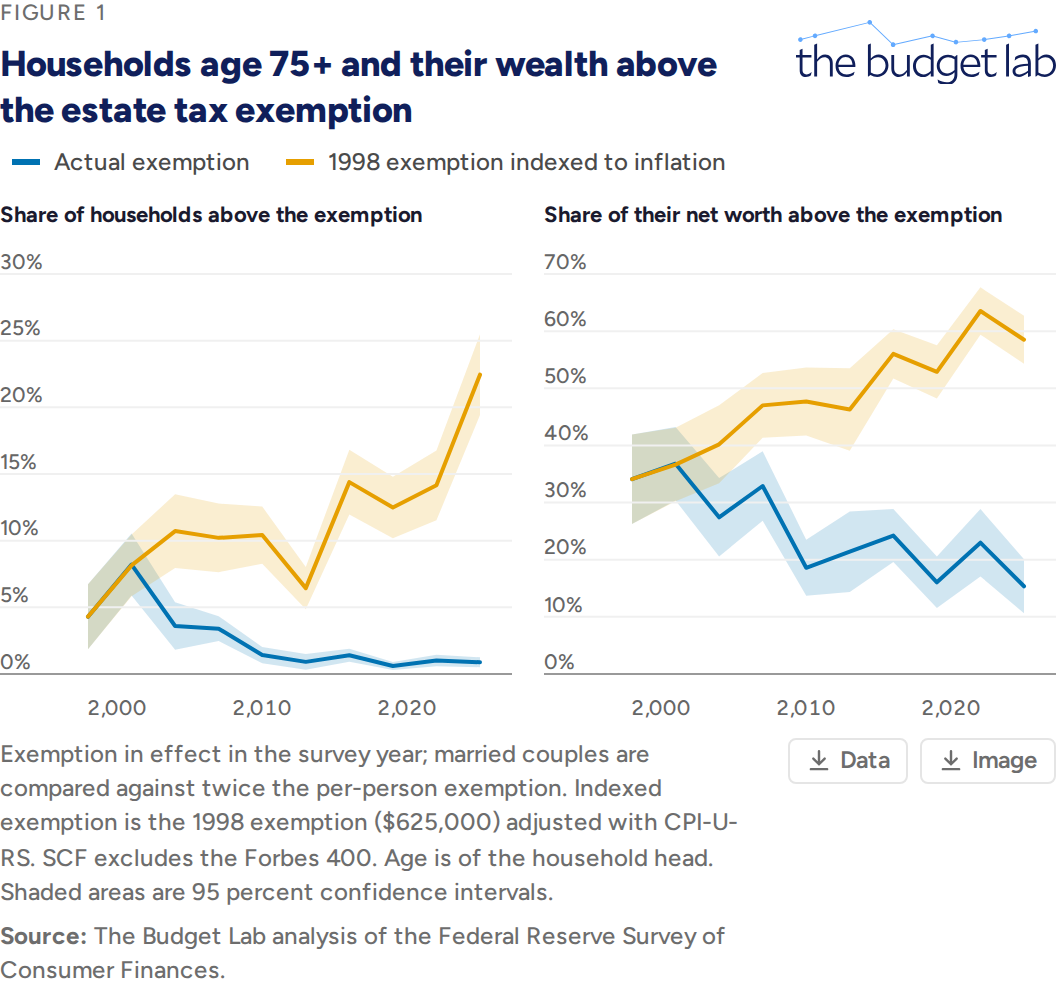
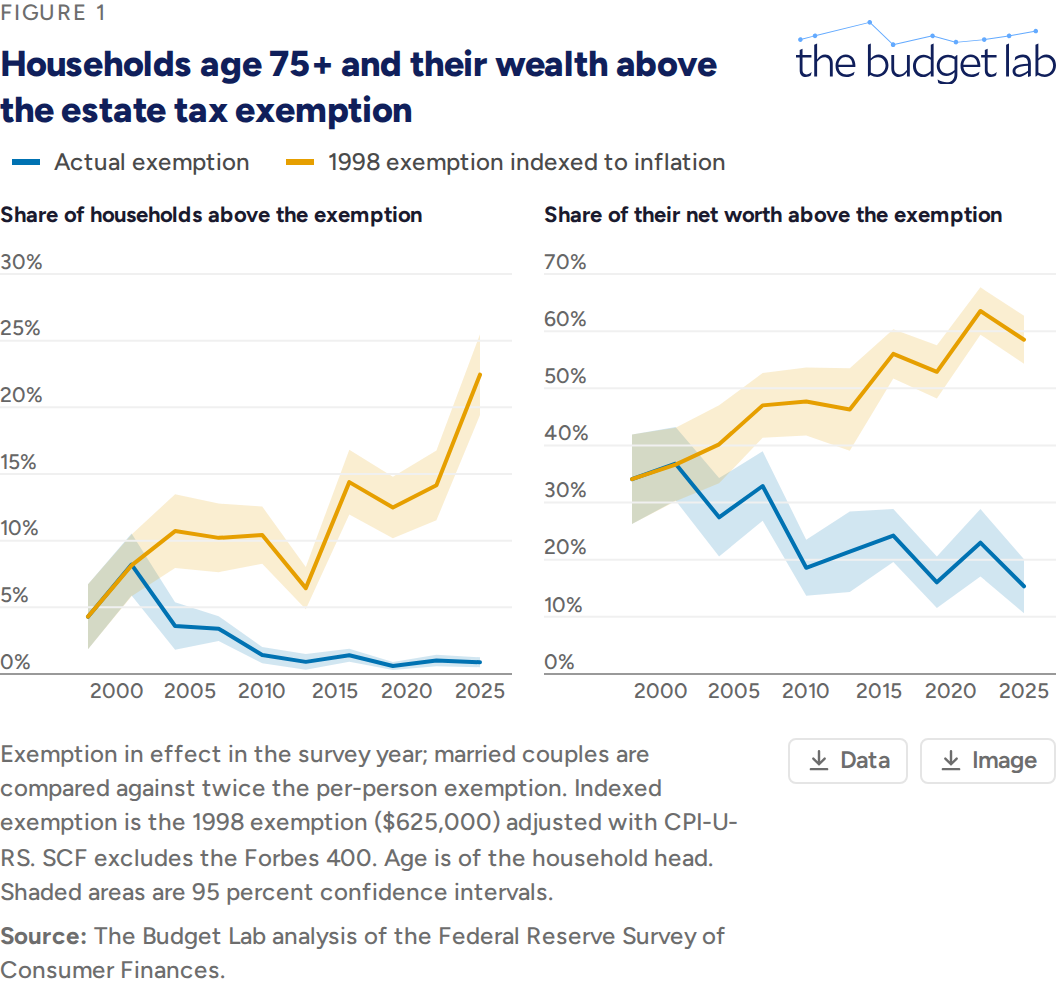
Deploy preview for PR 77 🛫

diff --git a/pr-preview/pr-77/scf-2025-tax-takeaways/home-sale-exclusion/index.html b/pr-preview/pr-77/scf-2025-tax-takeaways/home-sale-exclusion/index.html
@@ -16,7 +16,7 @@ if (typeof BudgetLabChart === "undefined") {
   renderUnavailable(el, "Home gains above the capital gains exclusion", "Figure 2");
 } else {
 BudgetLabChart.mountChart(el, {
-  spec: {"chartType":"line","title":"Home gains above the capital gains exclusion","source":"The Budget Lab analysis of the Federal Reserve Survey of Consumer Finances.","note":"Gain is current value of the primary residence less purchase price and improvements. Married couples are compared against $500,000. Total home gains exclude owners with losses. Indexed exclusion adjusted with CPI-U-RS. Shaded areas are 95 percent confidence intervals.","xAxisType":"numeric","columns":{"x":"year","value":"value","series":"series","facet":"panel"},"small_multiples":{"columns":2,"mode":"per-pane","pane_order":["Share of homeowners with gains above the exclusion","Share of home gains above the exclusion"]},"series_order":["Actual exclusion ($250,000 / $500,000)","Exclusion indexed to inflation since 1998"],"confidence_bands":[{"series":"Actual exclusion ($250,000 / $500,000)","lower":"lower","upper":"upper"},{"series":"Exclusion indexed to inflation since 1998","lower":"lower","upper":"upper"}],"value_suffix":"%","yAxisPolicy":{"min":0},"tooltip_decimals":1,"data":"data.csv"},
+  spec: {"chartType":"line","title":"Home gains above the capital gains exclusion","source":"The Budget Lab analysis of the Federal Reserve Survey of Consumer Finances.","note":"Gain is current value of the primary residence less purchase price and improvements. Married couples are compared against $500,000. Total home gains exclude owners with losses. Indexed exclusion adjusted with CPI-U-RS. Shaded areas are 95 percent confidence intervals.","xAxisType":"temporal","columns":{"x":"year","value":"value","series":"series","facet":"panel"},"small_multiples":{"columns":2,"mode":"per-pane","pane_order":["Share of homeowners with gains above the exclusion","Share of home gains above the exclusion"]},"series_order":["Actual exclusion ($250,000 / $500,000)","Exclusion indexed to inflation since 1998"],"confidence_bands":[{"series":"Actual exclusion ($250,000 / $500,000)","lower":"lower","upper":"upper"},{"series":"Exclusion indexed to inflation since 1998","lower":"lower","upper":"upper"}],"value_suffix":"%","yAxisPolicy":{"min":0},"tooltip_decimals":1,"data":"data.csv"},
   rows: [{"year":"1998","panel":"Share of homeowners with gains above the exclusion","series":"Actual exclusion ($250,000 / $500,000)","value":"0.61","lower":"0.37","upper":"0.85"},{"year":"2001","panel":"Share of homeowners with gains above the exclusion","series":"Actual exclusion ($250,000 / $500,000)","value":"1.56","lower":"1.28","upper":"1.85"},{"year":"2004","panel":"Share of homeowners with gains above the exclusion","series":"Actual exclusion ($250,000 / $500,000)","value":"4.52","lower":"3.88","upper":"5.16"},{"year":"2007","panel":"Share of homeowners with gains above the exclusion","series":"Actual exclusion ($250,000 / $500,000)","value":"6.67","lower":"5.96","upper":"7.39"},{"year":"2010","panel":"Share of homeowners with gains above the exclusion","series":"Actual exclusion ($250,000 / $500,000)","value":"3.7","lower":"3.18","upper":"4.22"},{"year":"2013","panel":"Share of homeowners with gains above the exclusion","series":"Actual exclusion ($250,000 / $500,000)","value":"3.06","lower":"2.56","upper":"3.56"},{"year":"2016","panel":"Share of homeowners with gains above the exclusion","series":"Actual exclusion ($250,000 / $500,000)","value":"4.37","lower":"3.84","upper":"4.89"},{"year":"2019","panel":"Share of homeowners with gains above the exclusion","series":"Actual exclusion ($250,000 / $500,000)","value":"4.54","lower":"4","upper":"5.08"},{"year":"2022","panel":"Share of homeowners with gains above the exclusion","series":"Actual exclusion ($250,000 / $500,000)","value":"10.45","lower":"9.01","upper":"11.88"},{"year":"2025","panel":"Share of homeowners with gains above the exclusion","series":"Actual exclusion ($250,000 / $500,000)","value":"11.68","lower":"10.56","upper":"12.8"},{"year":"1998","panel":"Share of homeowners with gains above the exclusion","series":"Exclusion indexed to inflation since 1998","value":"0.61","lower":"0.37","upper":"0.85"},{"year":"2001","panel":"Share of homeowners with gains above the exclusion","series":"Exclusion indexed to inflation since 1998","value":"1.34","lower":"1.08","upper":"1.6"},{"year":"2004","panel":"Share of homeowners with gains above the exclusion","series":"Exclusion indexed to inflation since 1998","value":"3.57","lower":"3.06","upper":"4.08"},{"year":"2007","panel":"Share of homeowners with gains above the exclusion","series":"Exclusion indexed to inflation since 1998","value":"4.52","lower":"3.98","upper":"5.06"},{"year":"2010","panel":"Share of homeowners with gains above the exclusion","series":"Exclusion indexed to inflation since 1998","value":"2.08","lower":"1.62","upper":"2.55"},{"year":"2013","panel":"Share of homeowners with gains above the exclusion","series":"Exclusion indexed to inflation since 1998","value":"1.71","lower":"1.38","upper":"2.05"},{"year":"2016","panel":"Share of homeowners with gains above the exclusion","series":"Exclusion indexed to inflation since 1998","value":"2.35","lower":"1.99","upper":"2.72"},{"year":"2019","panel":"Share of homeowners with gains above the exclusion","series":"Exclusion indexed to inflation since 1998","value":"2.42","lower":"1.92","upper":"2.91"},{"year":"2022","panel":"Share of homeowners with gains above the exclusion","series":"Exclusion indexed to inflation since 1998","value":"3.81","lower":"3.04","upper":"4.58"},{"year":"2025","panel":"Share of homeowners with gains above the exclusion","series":"Exclusion indexed to inflation since 1998","value":"3.91","lower":"3.28","upper":"4.53"},{"year":"1998","panel":"Share of home gains above the exclusion","series":"Actual exclusion ($250,000 / $500,000)","value":"5.78","lower":"3.52","upper":"8.04"},{"year":"2001","panel":"Share of home gains above the exclusion","series":"Actual exclusion ($250,000 / $500,000)","value":"8.92","lower":"6.68","upper":"11.16"},{"year":"2004","panel":"Share of home gains above the exclusion","series":"Actual exclusion ($250,000 / $500,000)","value":"16.2","lower":"13.11","upper":"19.29"},{"year":"2007","panel":"Share of home gains above the exclusion","series":"Actual exclusion ($250,000 / $500,000)","value":"18.84","lower":"16.72","upper":"20.95"},{"year":"2010","panel":"Share of home gains above the exclusion","series":"Actual exclusion ($250,000 / $500,000)","value":"14.55","lower":"12.11","upper":"16.98"},{"year":"2013","panel":"Share of home gains above the exclusion","series":"Actual exclusion ($250,000 / $500,000)","value":"15.67","lower":"12.8","upper":"18.54"},{"year":"2016","panel":"Share of home gains above the exclusion","series":"Actual exclusion ($250,000 / $500,000)","value":"21.39","lower":"16.1","upper":"26.69"},{"year":"2019","panel":"Share of home gains above the exclusion","series":"Actual exclusion ($250,000 / $500,000)","value":"21.98","lower":"18.19","upper":"25.77"},{"year":"2022","panel":"Share of home gains above the exclusion","series":"Actual exclusion ($250,000 / $500,000)","value":"24.11","lower":"21.32","upper":"26.91"},{"year":"2025","panel":"Share of home gains above the exclusion","series":"Actual exclusion ($250,000 / $500,000)","value":"25.65","lower":"23.05","upper":"28.25"},{"year":"1998","panel":"Share of home gains above the exclusion","series":"Exclusion indexed to inflation since 1998","value":"5.78","lower":"3.52","upper":"8.04"},{"year":"2001","panel":"Share of home gains above the exclusion","series":"Exclusion indexed to inflation since 1998","value":"8.2","lower":"6.03","upper":"10.37"},{"year":"2004","panel":"Share of home gains above the exclusion","series":"Exclusion indexed to inflation since 1998","value":"13.91","lower":"10.85","upper":"16.98"},{"year":"2007","panel":"Share of home gains above the exclusion","series":"Exclusion indexed to inflation since 1998","value":"14.71","lower":"12.69","upper":"16.73"},{"year":"2010","panel":"Share of home gains above the exclusion","series":"Exclusion indexed to inflation since 1998","value":"10.4","lower":"8.18","upper":"12.62"},{"year":"2013","panel":"Share of home gains above the exclusion","series":"Exclusion indexed to inflation since 1998","value":"10.91","lower":"8.37","upper":"13.46"},{"year":"2016","panel":"Share of home gains above the exclusion","series":"Exclusion indexed to inflation since 1998","value":"15.54","lower":"10.07","upper":"21.02"},{"year":"2019","panel":"Share of home gains above the exclusion","series":"Exclusion indexed to inflation since 1998","value":"15.45","lower":"11.83","upper":"19.07"},{"year":"2022","panel":"Share of home gains above the exclusion","series":"Exclusion indexed to inflation since 1998","value":"12.97","lower":"10.65","upper":"15.29"},{"year":"2025","panel":"Share of home gains above the exclusion","series":"Exclusion indexed to inflation since 1998","value":"12.49","lower":"10.12","upper":"14.86"}],
   eyebrow: /[?&]eyebrow=(off|0|false|none|hide)\b/i.test(location.search) ? undefined : "Figure 2",
 });

diff --git a/pr-preview/pr-77/scf-2025-tax-takeaways/estate-tax-exemption/index.html b/pr-preview/pr-77/scf-2025-tax-takeaways/estate-tax-exemption/index.html
@@ -16,7 +16,7 @@ if (typeof BudgetLabChart === "undefined") {
   renderUnavailable(el, "Households age 75+ and their wealth above the estate tax exemption", "Figure 1");
 } else {
 BudgetLabChart.mountChart(el, {
-  spec: {"chartType":"line","title":"Households age 75+ and their wealth above the estate tax exemption","source":"The Budget Lab analysis of the Federal Reserve Survey of Consumer Finances.","note":"Exemption in effect in the survey year; married couples are compared against twice the per-person exemption. Indexed exemption is the 1998 exemption ($625,000) adjusted with CPI-U-RS. SCF excludes the Forbes 400. Age is of the household head. Shaded areas are 95 percent confidence intervals.","xAxisType":"numeric","columns":{"x":"year","value":"value","series":"series","facet":"panel"},"small_multiples":{"columns":2,"mode":"per-pane","pane_order":["Share of households above the exemption","Share of their net worth above the exemption"]},"series_order":["Actual exemption","1998 exemption indexed to inflation"],"confidence_bands":[{"series":"Actual exemption","lower":"lower","upper":"upper"},{"series":"1998 exemption indexed to inflation","lower":"lower","upper":"upper"}],"value_suffix":"%","yAxisPolicy":{"min":0},"tooltip_decimals":1,"data":"data.csv"},
+  spec: {"chartType":"line","title":"Households age 75+ and their wealth above the estate tax exemption","source":"The Budget Lab analysis of the Federal Reserve Survey of Consumer Finances.","note":"Exemption in effect in the survey year; married couples are compared against twice the per-person exemption. Indexed exemption is the 1998 exemption ($625,000) adjusted with CPI-U-RS. SCF excludes the Forbes 400. Age is of the household head. Shaded areas are 95 percent confidence intervals.","xAxisType":"temporal","columns":{"x":"year","value":"value","series":"series","facet":"panel"},"small_multiples":{"columns":2,"mode":"per-pane","pane_order":["Share of households above the exemption","Share of their net worth above the exemption"]},"series_order":["Actual exemption","1998 exemption indexed to inflation"],"confidence_bands":[{"series":"Actual exemption","lower":"lower","upper":"upper"},{"series":"1998 exemption indexed to inflation","lower":"lower","upper":"upper"}],"value_suffix":"%","yAxisPolicy":{"min":0},"tooltip_decimals":1,"data":"data.csv"},
   rows: [{"year":"1998","panel":"Share of households above the exemption","series":"Actual exemption","value":"4.3","lower":"1.86","upper":"6.73"},{"year":"2001","panel":"Share of households above the exemption","series":"Actual exemption","value":"8.21","lower":"5.89","upper":"10.53"},{"year":"2004","panel":"Share of households above the exemption","series":"Actual exemption","value":"3.6","lower":"1.81","upper":"5.39"},{"year":"2007","panel":"Share of households above the exemption","series":"Actual exemption","value":"3.4","lower":"2.47","upper":"4.34"},{"year":"2010","panel":"Share of households above the exemption","series":"Actual exemption","value":"1.42","lower":"0.81","upper":"2.02"},{"year":"2013","panel":"Share of households above the exemption","series":"Actual exemption","value":"0.91","lower":"0.32","upper":"1.5"},{"year":"2016","panel":"Share of households above the exemption","series":"Actual exemption","value":"1.41","lower":"0.92","upper":"1.9"},{"year":"2019","panel":"Share of households above the exemption","series":"Actual exemption","value":"0.6","lower":"0.3","upper":"0.9"},{"year":"2022","panel":"Share of households above the exemption","series":"Actual exemption","value":"1.01","lower":"0.58","upper":"1.45"},{"year":"2025","panel":"Share of households above the exemption","series":"Actual exemption","value":"0.88","lower":"0.51","upper":"1.25"},{"year":"1998","panel":"Share of households above the exemption","series":"1998 exemption indexed to inflation","value":"4.3","lower":"1.86","upper":"6.73"},{"year":"2001","panel":"Share of households above the exemption","series":"1998 exemption indexed to inflation","value":"8.15","lower":"5.83","upper":"10.46"},{"year":"2004","panel":"Share of households above the exemption","series":"1998 exemption indexed to inflation","value":"10.72","lower":"7.95","upper":"13.48"},{"year":"2007","panel":"Share of households above the exemption","series":"1998 exemption indexed to inflation","value":"10.21","lower":"7.64","upper":"12.78"},{"year":"2010","panel":"Share of households above the exemption","series":"1998 exemption indexed to inflation","value":"10.42","lower":"8.26","upper":"12.57"},{"year":"2013","panel":"Share of households above the exemption","series":"1998 exemption indexed to inflation","value":"6.44","lower":"4.85","upper":"8.02"},{"year":"2016","panel":"Share of households above the exemption","series":"1998 exemption indexed to inflation","value":"14.39","lower":"11.96","upper":"16.82"},{"year":"2019","panel":"Share of households above the exemption","series":"1998 exemption indexed to inflation","value":"12.49","lower":"10.18","upper":"14.79"},{"year":"2022","panel":"Share of households above the exemption","series":"1998 exemption indexed to inflation","value":"14.16","lower":"11.54","upper":"16.77"},{"year":"2025","panel":"Share of households above the exemption","series":"1998 exemption indexed to inflation","value":"22.45","lower":"19.42","upper":"25.48"},{"year":"1998","panel":"Share of their net worth above the exemption","series":"Actual exemption","value":"34.09","lower":"26.27","upper":"41.9"},{"year":"2001","panel":"Share of their net worth above the exemption","series":"Actual exemption","value":"36.81","lower":"30.38","upper":"43.24"},{"year":"2004","panel":"Share of their net worth above the exemption","series":"Actual exemption","value":"27.42","lower":"20.56","upper":"34.28"},{"year":"2007","panel":"Share of their net worth above the exemption","series":"Actual exemption","value":"32.9","lower":"26.81","upper":"38.98"},{"year":"2010","panel":"Share of their net worth above the exemption","series":"Actual exemption","value":"18.59","lower":"13.7","upper":"23.49"},{"year":"2013","panel":"Share of their net worth above the exemption","series":"Actual exemption","value":"21.41","lower":"14.36","upper":"28.45"},{"year":"2016","panel":"Share of their net worth above the exemption","series":"Actual exemption","value":"24.23","lower":"19.59","upper":"28.86"},{"year":"2019","panel":"Share of their net worth above the exemption","series":"Actual exemption","value":"16.04","lower":"11.53","upper":"20.56"},{"year":"2022","panel":"Share of their net worth above the exemption","series":"Actual exemption","value":"22.98","lower":"17.08","upper":"28.87"},{"year":"2025","panel":"Share of their net worth above the exemption","series":"Actual exemption","value":"15.35","lower":"10.62","upper":"20.07"},{"year":"1998","panel":"Share of their net worth above the exemption","series":"1998 exemption indexed to inflation","value":"34.09","lower":"26.27","upper":"41.9"},{"year":"2001","panel":"Share of their net worth above the exemption","series":"1998 exemption indexed to inflation","value":"36.65","lower":"30.21","upper":"43.08"},{"year":"2004","panel":"Share of their net worth above the exemption","series":"1998 exemption indexed to inflation","value":"40.19","lower":"33.36","upper":"47.02"},{"year":"2007","panel":"Share of their net worth above the exemption","series":"1998 exemption indexed to inflation","value":"47.01","lower":"41.35","upper":"52.67"},{"year":"2010","panel":"Share of their net worth above the exemption","series":"1998 exemption indexed to inflation","value":"47.68","lower":"41.72","upper":"53.63"},{"year":"2013","panel":"Share of their net worth above the exemption","series":"1998 exemption indexed to inflation","value":"46.28","lower":"39.08","upper":"53.49"},{"year":"2016","panel":"Share of their net worth above the exemption","series":"1998 exemption indexed to inflation","value":"56.02","lower":"51.71","upper":"60.34"},{"year":"2019","panel":"Share of their net worth above the exemption","series":"1998 exemption indexed to inflation","value":"52.88","lower":"48.22","upper":"57.55"},{"year":"2022","panel":"Share of their net worth above the exemption","series":"1998 exemption indexed to inflation","value":"63.52","lower":"59.39","upper":"67.66"},{"year":"2025","panel":"Share of their net worth above the exemption","series":"1998 exemption indexed to inflation","value":"58.5","lower":"54.3","upper":"62.69"}],
   eyebrow: /[?&]eyebrow=(off|0|false|none|hide)\b/i.test(location.search) ? undefined : "Figure 1",
 });

diff --git a/pr-preview/pr-77/scf-2025-tax-takeaways/roth-ira/index.html b/pr-preview/pr-77/scf-2025-tax-takeaways/roth-ira/index.html
@@ -16,7 +16,7 @@ if (typeof BudgetLabChart === "undefined") {
   renderUnavailable(el, "Roth IRA holders and balances", "Figure 3");
 } else {
 BudgetLabChart.mountChart(el, {
-  spec: {"chartType":"line","title":"Roth IRA holders and balances","source":"The Budget Lab analysis of the Federal Reserve Survey of Consumer Finances.","note":"IRAs include Keogh plans. Retirement accounts are IRAs, Keoghs, and employer defined contribution plans such as 401(k)s; defined benefit pensions are excluded. Roth 401(k)s cannot be identified and are counted as non-Roth. Balances by IRA type are not available before 2004. Shaded areas are 95 percent confidence intervals.","xAxisType":"numeric","columns":{"x":"year","value":"value","series":"series","facet":"panel"},"small_multiples":{"columns":2,"mode":"per-pane","pane_order":["Share of account holders with a Roth IRA","Share of balances held in Roth IRAs"]},"series_order":["IRAs","All retirement accounts"],"confidence_bands":[{"series":"IRAs","lower":"lower","upper":"upper"},{"series":"All retirement accounts","lower":"lower","upper":"upper"}],"value_suffix":"%","yAxisPolicy":{"min":0},"tooltip_decimals":1,"data":"data.csv"},
+  spec: {"chartType":"line","title":"Roth IRA holders and balances","source":"The Budget Lab analysis of the Federal Reserve Survey of Consumer Finances.","note":"IRAs include Keogh plans. Retirement accounts are IRAs, Keoghs, and employer defined contribution plans such as 401(k)s; defined benefit pensions are excluded. Roth 401(k)s cannot be identified and are counted as non-Roth. Balances by IRA type are not available before 2004. Shaded areas are 95 percent confidence intervals.","xAxisType":"temporal","columns":{"x":"year","value":"value","series":"series","facet":"panel"},"small_multiples":{"columns":2,"mode":"per-pane","pane_order":["Share of account holders with a Roth IRA","Share of balances held in Roth IRAs"]},"series_order":["IRAs","All retirement accounts"],"confidence_bands":[{"series":"IRAs","lower":"lower","upper":"upper"},{"series":"All retirement accounts","lower":"lower","upper":"upper"}],"value_suffix":"%","yAxisPolicy":{"min":0},"tooltip_decimals":1,"data":"data.csv"},
   rows: [{"year":"2001","panel":"Share of account holders with a Roth IRA","series":"IRAs","value":"25.84","lower":"23.53","upper":"28.15"},{"year":"2004","panel":"Share of account holders with a Roth IRA","series":"IRAs","value":"27.35","lower":"25.17","upper":"29.52"},{"year":"2007","panel":"Share of account holders with a Roth IRA","series":"IRAs","value":"31.46","lower":"29.49","upper":"33.43"},{"year":"2010","panel":"Share of account holders with a Roth IRA","series":"IRAs","value":"34.12","lower":"32.18","upper":"36.05"},{"year":"2013","panel":"Share of account holders with a Roth IRA","series":"IRAs","value":"37.44","lower":"35.37","upper":"39.5"},{"year":"2016","panel":"Share of account holders with a Roth IRA","series":"IRAs","value":"39.99","lower":"37.86","upper":"42.13"},{"year":"2019","panel":"Share of account holders with a Roth IRA","series":"IRAs","value":"46.68","lower":"44.46","upper":"48.9"},{"year":"2022","panel":"Share of account holders with a Roth IRA","series":"IRAs","value":"51.93","lower":"49.23","upper":"54.64"},{"year":"2025","panel":"Share of account holders with a Roth IRA","series":"IRAs","value":"58.24","lower":"55.6","upper":"60.87"},{"year":"2001","panel":"Share of account holders with a Roth IRA","series":"All retirement accounts","value":"15.34","lower":"13.83","upper":"16.84"},{"year":"2004","panel":"Share of account holders with a Roth IRA","series":"All retirement accounts","value":"15.91","lower":"14.49","upper":"17.33"},{"year":"2007","panel":"Share of account holders with a Roth IRA","series":"All retirement accounts","value":"18.16","lower":"16.83","upper":"19.49"},{"year":"2010","panel":"Share of account holders with a Roth IRA","series":"All retirement accounts","value":"18.98","lower":"17.69","upper":"20.27"},{"year":"2013","panel":"Share of account holders with a Roth IRA","series":"All retirement accounts","value":"21.37","lower":"20.07","upper":"22.67"},{"year":"2016","panel":"Share of account holders with a Roth IRA","series":"All retirement accounts","value":"22.99","lower":"21.5","upper":"24.48"},{"year":"2019","panel":"Share of account holders with a Roth IRA","series":"All retirement accounts","value":"23.52","lower":"22.23","upper":"24.82"},{"year":"2022","panel":"Share of account holders with a Roth IRA","series":"All retirement accounts","value":"29.61","lower":"27.67","upper":"31.54"},{"year":"2025","panel":"Share of account holders with a Roth IRA","series":"All retirement accounts","value":"32.36","lower":"30.6","upper":"34.13"},{"year":"2004","panel":"Share of balances held in Roth IRAs","series":"IRAs","value":"7.36","lower":"5.3","upper":"9.41"},{"year":"2007","panel":"Share of balances held in Roth IRAs","series":"IRAs","value":"8.1","lower":"6.6","upper":"9.6"},{"year":"2010","panel":"Share of balances held in Roth IRAs","series":"IRAs","value":"11.05","lower":"8.77","upper":"13.33"},{"year":"2013","panel":"Share of balances held in Roth IRAs","series":"IRAs","value":"13.12","lower":"10.82","upper":"15.42"},{"year":"2016","panel":"Share of balances held in Roth IRAs","series":"IRAs","value":"14.54","lower":"12.29","upper":"16.79"},{"year":"2019","panel":"Share of balances held in Roth IRAs","series":"IRAs","value":"14.23","lower":"12.04","upper":"16.42"},{"year":"2022","panel":"Share of balances held in Roth IRAs","series":"IRAs","value":"17.12","lower":"14.8","upper":"19.43"},{"year":"2025","panel":"Share of balances held in Roth IRAs","series":"IRAs","value":"17.38","lower":"14.4","upper":"20.37"},{"year":"2004","panel":"Share of balances held in Roth IRAs","series":"All retirement accounts","value":"3.62","lower":"2.63","upper":"4.61"},{"year":"2007","panel":"Share of balances held in Roth IRAs","series":"All retirement accounts","value":"3.72","lower":"3","upper":"4.43"},{"year":"2010","panel":"Share of balances held in Roth IRAs","series":"All retirement accounts","value":"5.35","lower":"4.25","upper":"6.45"},{"year":"2013","panel":"Share of balances held in Roth IRAs","series":"All retirement accounts","value":"7.22","lower":"5.95","upper":"8.49"},{"year":"2016","panel":"Share of balances held in Roth IRAs","series":"All retirement accounts","value":"7.45","lower":"6.23","upper":"8.68"},{"year":"2019","panel":"Share of balances held in Roth IRAs","series":"All retirement accounts","value":"7.16","lower":"6.09","upper":"8.23"},{"year":"2022","panel":"Share of balances held in Roth IRAs","series":"All retirement accounts","value":"9.03","lower":"7.73","upper":"10.33"},{"year":"2025","panel":"Share of balances held in Roth IRAs","series":"All retirement accounts","value":"9.6","lower":"7.89","upper":"11.31"}],
   eyebrow: /[?&]eyebrow=(off|0|false|none|hide)\b/i.test(location.search) ? undefined : "Figure 3",
 });
